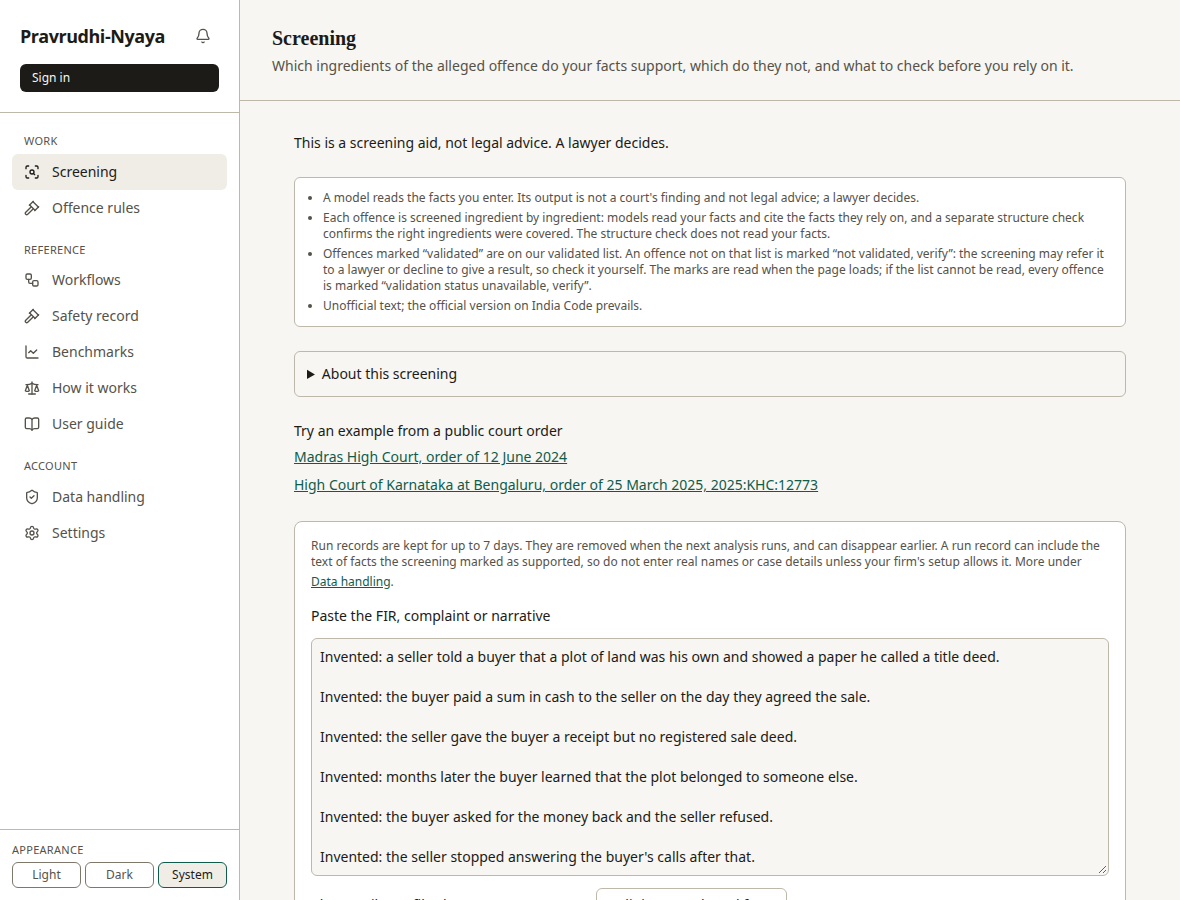
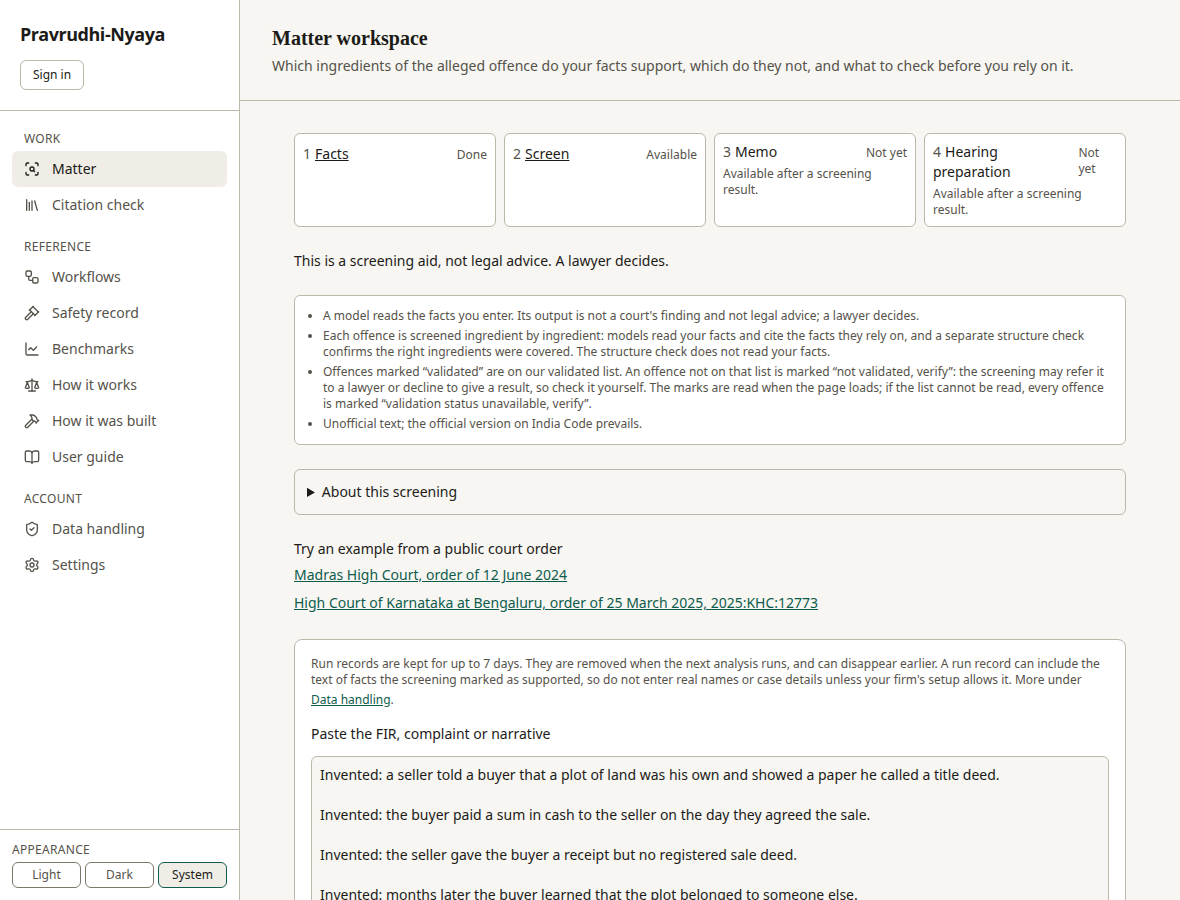
#261 Guide: step 1 names the Matter workspace (R1's candidate B); frame 01 retaken from the live Matter workspace (157,730 bytes) with R1's alt; pins

diff --git a/frontend/src/lib/guide/copy.ts b/frontend/src/lib/guide/copy.ts
@@ -38,7 +38,7 @@ const FRAME_05_RETAKEN = true; // retaken by Track A at #209 72a74cb1 on a build
 export const GUIDE_IMAGES: Record<"input" | "checklist" | "citedFact" | "needsReview" | "citations" | "memo", GuideImage> = {
   input: {
     file: "01-screening-input.png",
-    alt: "The top of the Screening page with an invented plot-sale matter: the standing not-legal-advice line, the caveat strip, the closed About this screening fold, the example entry naming two public court orders, and the facts form with the matter pasted in.",
+    alt: "The top of the Matter workspace with an invented plot-sale matter: the four steps (Facts done, Screen available, Memo and Hearing preparation not yet), the standing not-legal-advice line, the caveat strip, the closed About this screening fold, the example entry naming two public court orders, the retention note, and the box with the matter pasted in.",
   },
   checklist: {
     file: "02-ingredient-checklist.png",
@@ -102,7 +102,7 @@ export const GUIDE_STEPS: GuideStep[] = [
   {
     id: "paste",
     heading: "1. Paste the facts and pick the offence",
-    text: "Paste the FIR, complaint or narrative on the Screening page and choose Split into numbered facts. Each fact becomes F1, F2 and so on, and you can edit any of them. Then pick the offence or offences to screen for. To see how it reads, choose Try an example from a public court order. Do not submit real names or case details unless your organisation allows it: the page shows the retention notice before you send.",
+    text: "Open Matter in the menu. In the Facts step, paste the FIR, complaint or narrative and choose Split into numbered facts. Each fact becomes F1, F2 and so on, and you can edit any of them. Then pick the offence or offences to screen for. To see how it reads, choose Try an example from a public court order. Do not submit real names or case details unless your organisation allows it: the page shows the retention notice before you send.",
     image: GUIDE_IMAGES.input,
   },
   {

diff --git a/frontend/src/lib/guide/guide.spec.ts b/frontend/src/lib/guide/guide.spec.ts
@@ -150,3 +150,14 @@ test("frame 05 alt: the batch size is the cap constant", async () => {
   const { MAX_CITATIONS_EXISTENCE } = await import("./../citationsPanel");
   assert.match(GUIDE_IMAGES.citations.alt, new RegExp(`at most ${MAX_CITATIONS_EXISTENCE} at a time`));
 });
+
+// R1 (#261, 15 Oct): the guide names the Matter workspace. Step 1's first sentence is candidate B, byte-exact; frame 01 is Studio's retake from the live Matter workspace (1180x900, 157,730 bytes, sha256 f370fed2798a…)
+// with R1's exact alt; no step-count claim in the guide text (Hearing preparation is build-gated).
+test("#261: guide step 1 and frame 01 describe the Matter workspace, as R1 worded them", () => {
+  const step1 = GUIDE_STEPS.find((s) => s.id === "paste")!;
+  assert.ok(step1.text.startsWith("Open Matter in the menu. In the Facts step, paste the FIR, complaint or narrative and choose Split into numbered facts. Each fact becomes F1"));
+  assert.doesNotMatch(step1.text, /Screening page/);
+  assert.equal(statSync(join(root, "public", "guide", "01-screening-input.png")).size, 157730, "Studio's retake from the live Matter workspace (sha256 f370fed2798a…)");
+  assert.equal(GUIDE_IMAGES.input.alt, "The top of the Matter workspace with an invented plot-sale matter: the four steps (Facts done, Screen available, Memo and Hearing preparation not yet), the standing not-legal-advice line, the caveat strip, the closed About this screening fold, the example entry naming two public court orders, the retention note, and the box with the matter pasted in.");
+  assert.doesNotMatch(GUIDE_STEPS.map((x) => `${x.heading} ${x.text}`).join(" "), /four steps|step bar/i, "no step-count claim in the guide text (R1); the picture's alt may name the steps");
+});
